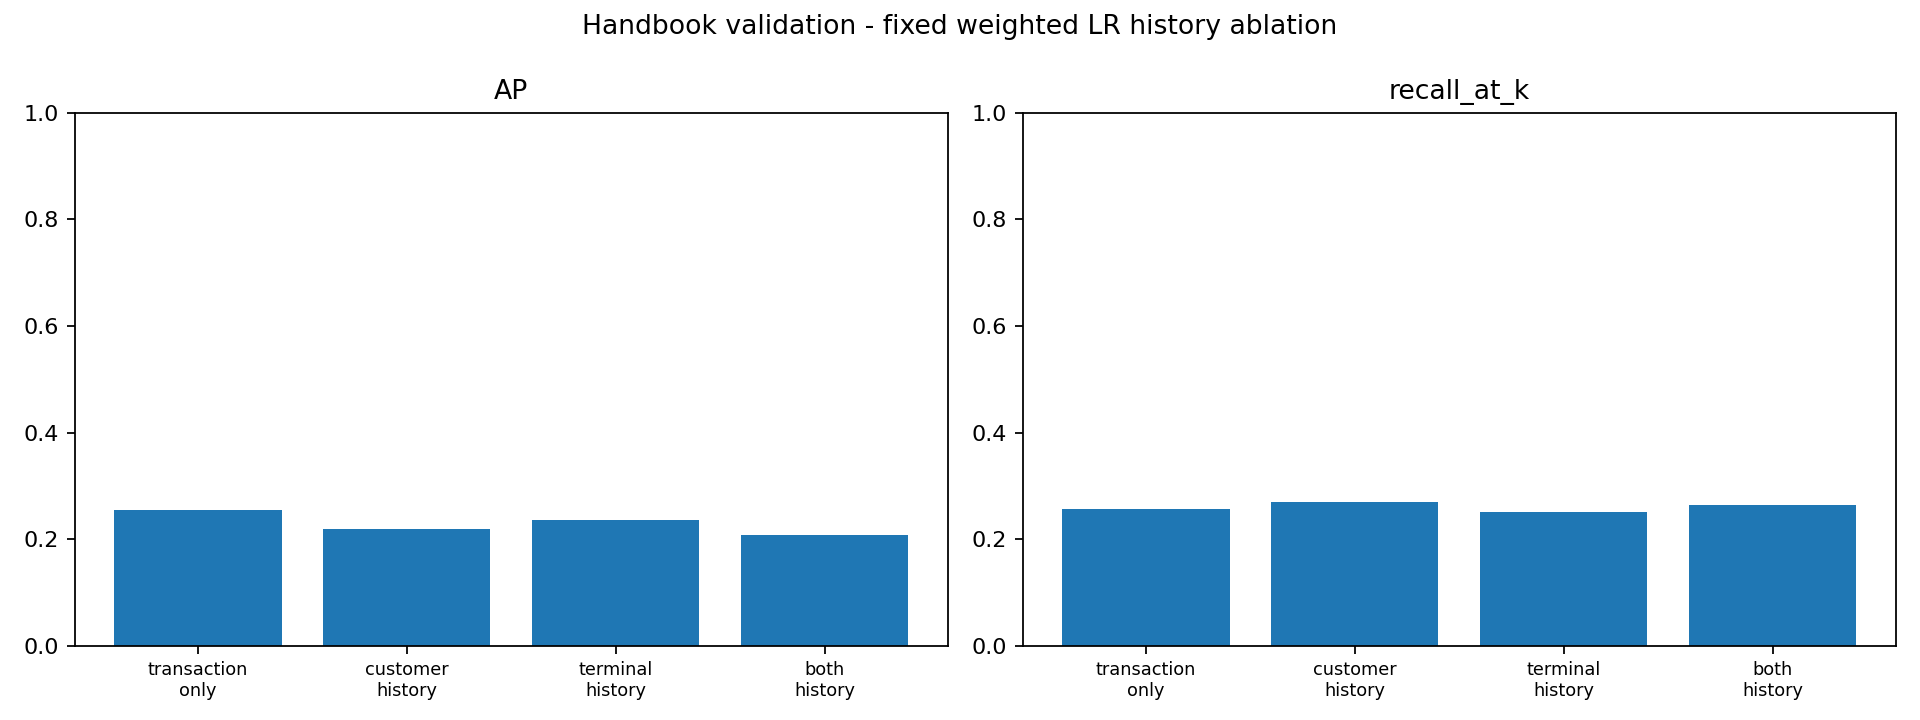
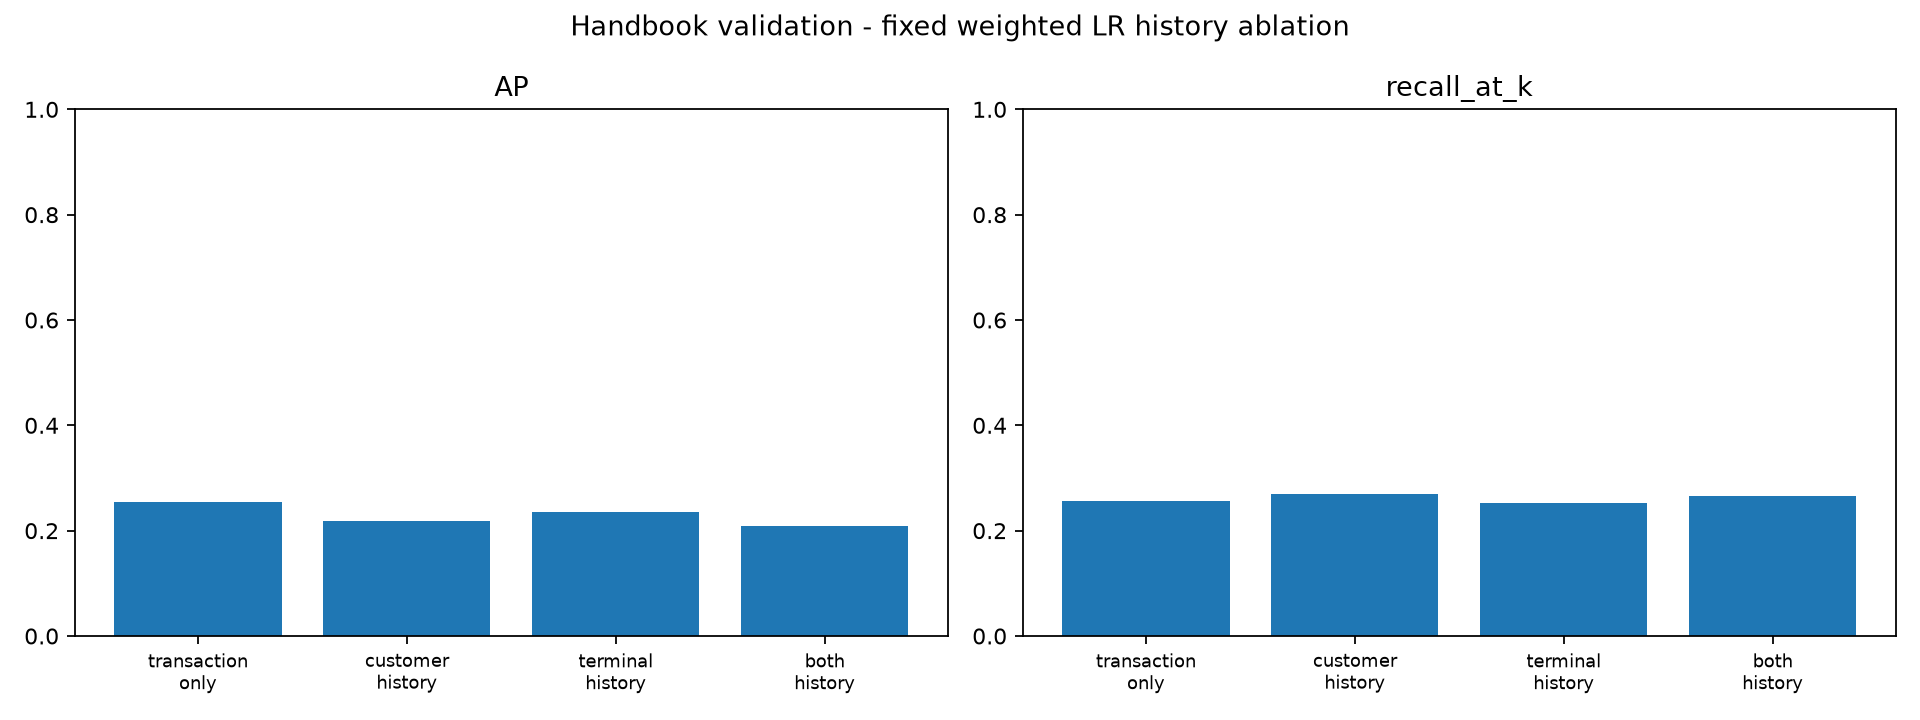
Verify fingerprint fix across architectures and reconcile Handbook B C evidence

diff --git a/report/C_IMPROVEMENTS.md b/report/C_IMPROVEMENTS.md
@@ -562,3 +562,23 @@ C-N1/N2/N3 的正式验证与说明已完成。A6 仍需将全组实现整合到
 D 的远端分支仍是 `33e07a3`，尚无 Handbook E15 完整语义规则/机制诊断交付；A 的接口试运行不替代 D-N1。B 的扩展已提交，但其结果来自与锁定环境不同的依赖版本，需要 B/A 统一环境复核。详细剩余任务和分支审计已写入 TASKS.md，不能将“各功能分支可运行”当作“main 已整合/项目可提交”。报告和海报仍有正式结果占位，最终 PDF 尚未生成。
 
 AIGC 补充：Codex 协助本次接入、固定协议复跑、结果核对及说明整理。组员需核对结论并按课程要求自行形成最终报告、披露实际协助。
+
+## 指纹差异排查与最小修复（2026-11-16）
+
+本节解决上节的待排查项。修复只涉及计算指纹，不修改特征生成、模型输入、参数或评价，也不增加组员操作流程。
+
+在 437,454 条开发记录、19 列特征上，使用相同原始文件和源码做了三组对照：
+
+| 环境 | NumPy / pandas | 与 ARM 主环境比较 |
+|---|---|---|
+| ARM 主环境 | 2.5.4 / 3.1.1 | 基准 |
+| ARM、B 原依赖版本 | 2.4.4 / 3.0.2 | 全部数值逐位一致 |
+| x86、B 原依赖版本（Rosetta） | 2.4.4 / 3.0.2 | 只有 time_sin/time_cos 不同 |
+
+x86 对照中，time_sin 有 71,665 行、time_cos 有 89,185 行相差最后 1 个浮点位，最大绝对差均为 1.1102230246251565e-16；其余 17 列，包括金额和全部历史统计，逐位一致。这复现了平台/数学实现的微小三角函数差异如何造成完全不同的精确哈希；单纯把依赖版本改成 B 的版本并不能消除它。此外，B 的六份源码哈希均能在原源码的 LF/CRLF 两种表示中找到精确匹配，源码换行不是逻辑不同。
+
+共享 `_handbook_view_fingerprints` 现在采用 `handbook-view-v2-time12`：按 row_id 排序、固定数值编码，**仅计算哈希时**将两列时间编码统一到小数点后 12 位，金额和历史值不舍入。三个环境的训练/验证四视图共八个新指纹全部相同。测试同时确认金额或历史数值改变后指纹仍改变，函数不修改原特征表。
+
+已用锁定环境重新运行 B 的四视图/冷启动和 C 的全部 Handbook 验证，B/C 八个 v2 指纹完全一致。B 的四组评价、金额和冷启动统计与旧发布结果完全一致；C 的指标、成本、九个压力条件以及八份逐行预测 CSV 哈希不变。88 项公共检查＋11 项分类检查通过。新结果已写回原 handbook_b.json、handbook_c.json；原结果保留在 Git 历史，检查细节集中于 handbook_c_readiness.json 的 fingerprint_resolution。
+
+旧 Windows 原始特征表没有存入仓库，故无法逐列重建其旧指纹，不将历史摘要改写成“逐位完全相同”。旧摘要使用未标版本的精确哈希，新摘要明确记录 v2；二者不直接比较。当前数值指纹的跨平台问题已修复并验证，无需为它单独增加 A7 审批或新任务。A6 合入后组员拉取同一 main，沿用原运行命令即可；A7/A8 的常规模型冻结和正式测试安排不变。

diff --git a/README.md b/README.md
@@ -97,7 +97,7 @@ A 已通过 [PaySim](https://github.com/EdgarLopezPhD/PaySim) 来源与字段审
 
 ULB 保留原切分、特征和已完成成果；不同数据集分别训练、分别评价，不拼表，不直接套用 ULB 模型。AP 随类别比例变化，跨数据集主要比较方法的相对表现与局限，不平均成一个总分。所有结果带 dataset_id。
 
-C 交付更新（2026-11-16）：A-N1 已到位；C 的四组 IF 历史消融、关系增量、九条件缺失压力已在正式 Handbook 数据上独立运行两遍，全部指标/逐行预测精确复现，96 项检查通过。[正式验证汇总](https://github.com/congrenhang-ship-it/AIAA3111-Group20/blob/codex/c-independent-modules/results/tables/handbook_c.json)和 [C 图文说明](https://github.com/congrenhang-ship-it/AIAA3111-Group20/blob/codex/c-independent-modules/report/C_IMPROVEMENTS.md)已发布，保留历史/关系未改善的结果。A/B/C 原数据字节、划分和列一致，但 A/B 与 C 的数值视图哈希不同，统一环境核对列入 A7；没有宣称位级特征完全相同。C 已无剩余独立开发，正式 test 图文仍待 A7/G2、A8。所有分支当前缺口及顺序见 [TASKS.md](TASKS.md)。main 仍需 A6 集成功能分支，本次 main 同步共享状态。
+C 交付更新（2026-11-16）：A-N1 已到位；C 的四组 IF 历史消融、关系增量、九条件缺失压力已在正式 Handbook 数据上独立运行两遍，全部指标/逐行预测精确复现，96 项检查通过。[正式验证汇总](https://github.com/congrenhang-ship-it/AIAA3111-Group20/blob/codex/c-independent-modules/results/tables/handbook_c.json)和 [C 图文说明](https://github.com/congrenhang-ship-it/AIAA3111-Group20/blob/codex/c-independent-modules/report/C_IMPROVEMENTS.md)已发布，保留历史/关系未改善的结果。指纹差异已定位并修复：只在哈希时统一两列时间编码，模型输入不变；ARM/x86 三环境以及实际 B/C 复跑的八个 v2 指纹一致，99 项检查通过，原效果不变。C 已无剩余独立开发，正式 test 图文仍待 A7/G2、A8。所有分支当前缺口及顺序见 [TASKS.md](TASKS.md)。main 仍需 A6 集成功能分支，本次 main 同步共享状态。
 
 数据生成、下载、B/C/D 调用与文件结构见 [中文交接](https://github.com/congrenhang-ship-it/AIAA3111-Group20/blob/Task_A/docs/TASK_A.zh-CN.md) / [English handoff](https://github.com/congrenhang-ship-it/AIAA3111-Group20/blob/Task_A/docs/TASK_A.en.md)。
 
@@ -158,7 +158,7 @@ python -X utf8 -m unittest discover -s code -p test_classification.py
 | 成员 | 现在可独立做 | 交付之后 |
 |---|---|---|
 | A | A-N1/N2/N3 的交付与验证已完成 | 各数据线具备条件即 A7/A8 |
-| B | E03/E05/E10/E13 已交付，先在锁定环境复核 | 交 A6/A7；A8 后补 B6/B7 |
+| B | Handbook 共同环境复核已完成，剩 ULB E03/E05 复核 | 交 A6/A7；A8 后补 B6/B7 |
 | C | C-N1/N2/N3 正式验证、复跑、组合图及解释已完成 | 各线 A7/A8 后补 C7/C8 正式 test 图文 |
 | D | 现有稿件继续；准备语义特征规则与机制解释 | A-N1 后 D-N1，逐线收取证据并做 D5–D7 |
 

diff --git a/report/B_CLASSIFICATION.md b/report/B_CLASSIFICATION.md
@@ -88,3 +88,9 @@ B 的 11 项检查通过。全仓 85 项中 84 项通过，test_B_reproduction_c
 本轮修复：Handbook 首次生成遇到 Windows 相对目标重命名失败，使用绝对输出路径后成功，未改 A 的算法；ULB 首次导出遇到相对路径与绝对根目录比较错误，规范输出路径后完整重跑相同条件。结果没有用于调整模型、参数或生成配置。
 
 B-E1/E2/N1/N2 已实现并完成本机正式数据验证，供 A7/D 接入；正式验收还包括共同依赖复核。B6 现有方法和验证稿已可整合，正式 test 数字及 B7 最终核对等待 A7/G2 和 A8。未评分任何测试段。Codex 辅助实现、检查和文字整理，应按实际情况纳入 Disclosures。
+
+## 2026-11-16 指纹修复与 Handbook 共同环境复核
+
+上面的运行环境限制是 11 月 15 日的原始交付记录。此次在共同锁定环境重新运行 Handbook 四个 LR 及冷启动评价，四组指标、金额统计和冷启动汇总与原结果完全一致；新 handbook_b.json 已记录实际环境。B/C 使用同一 `handbook-view-v2-time12` 指纹函数，八个视图指纹完全匹配。该函数仅在计算指纹时规范两列时间编码，不改变模型输入。
+
+88 项公共检查及 11 项 B 检查均通过。Handbook 的 B-N1/N2 共同环境复核已完成；ULB 的 E03/E05 本次未重跑，仍保留其原依赖复核事项。最小修复和跨架构排查证据见 C_IMPROVEMENTS.md 及 handbook_c_readiness.json；无新增模型搜索或正式测试。

diff --git a/report/EXTENSION_PROPOSALS.md b/report/EXTENSION_PROPOSALS.md
@@ -144,7 +144,7 @@ A-N1 统一元数据保留原 CUSTOMER_ID/TERMINAL_ID（不入模），视图键
 
 ### 已实现的 C 接口与 A-N1 一次性交付约定（2026-11-15）
 
-2026-11-16 状态更新：A-N1 已交付，C-N1/N2/N3 已完成正式数据独立复跑和发布（不是合成样例结论），下述接口约定继续有效。A/B/C 原始数据、划分与列清单相同，但 A/B 与 C 的数值视图指纹不同；已记录供 A7 统一环境冻结，未修改他人证据。正式测试仍等 A7/G2、A8。
+2026-11-16 状态更新：A-N1 已交付，C-N1/N2/N3 已完成正式数据独立复跑和发布（不是合成样例结论），下述接口约定继续有效。指纹问题已修复：共享函数采用 handbook-view-v2-time12，仅哈希时将 time_sin/time_cos 统一到小数点后 12 位，其余特征不舍入，不改模型输入。三种环境及实际 B/C 复跑的八个指纹一致；旧未标版本哈希保留在历史，不能与 v2 直接比较。正式测试仍等 A7/G2、A8。
 
 A-N1 已提供正式 Handbook 数据和回调。A 通过 --run-handbook-c 两次执行 C-N1/N2/N3 正式验证入口，指标、特征指纹及九个历史缺失条件一致。C 负责复核、解释和发布自己的结果。
 
